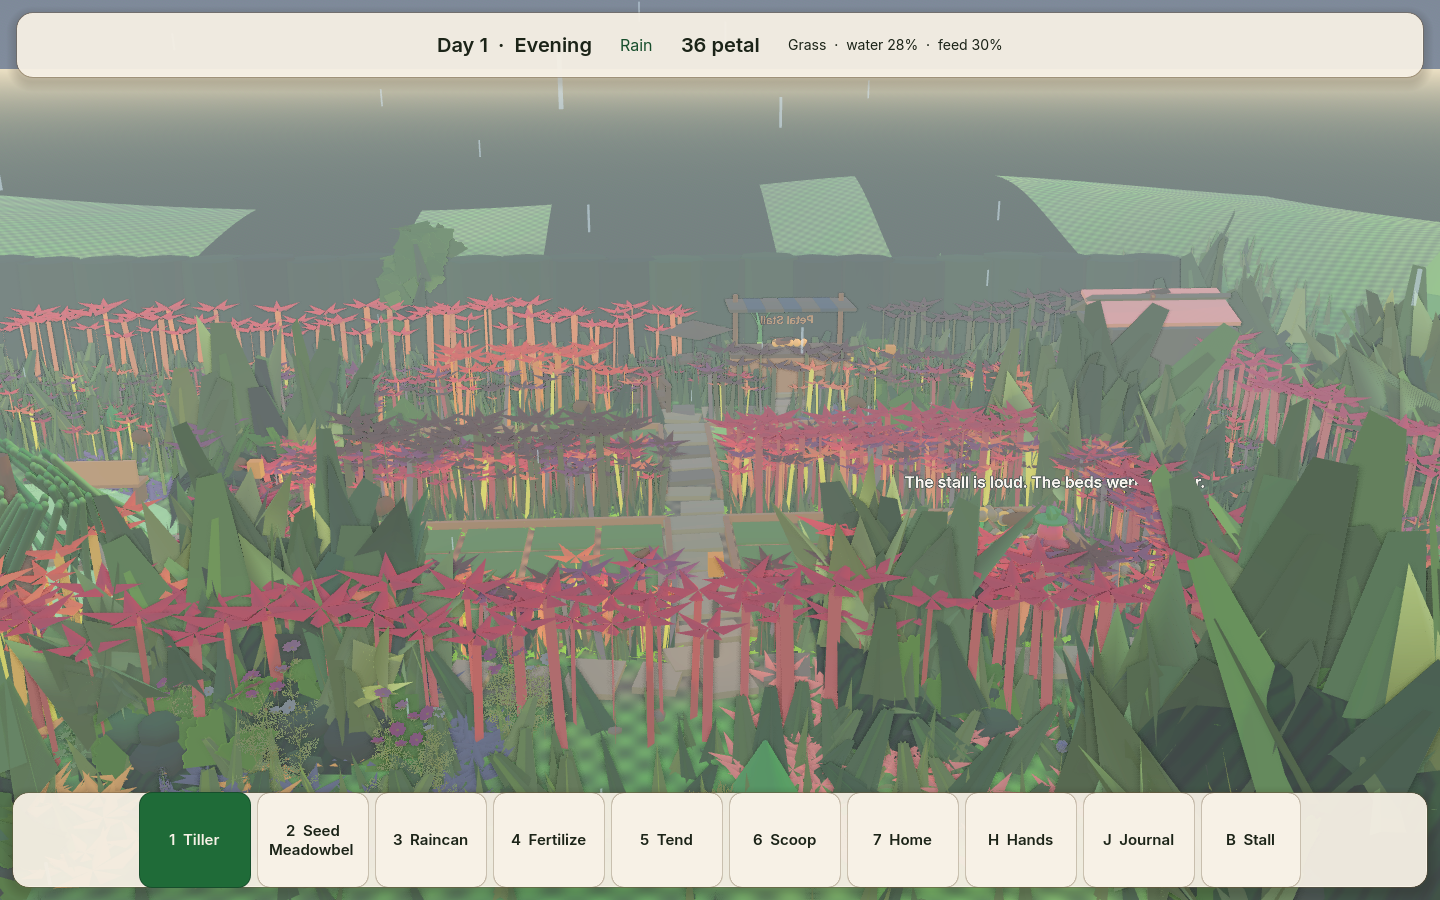
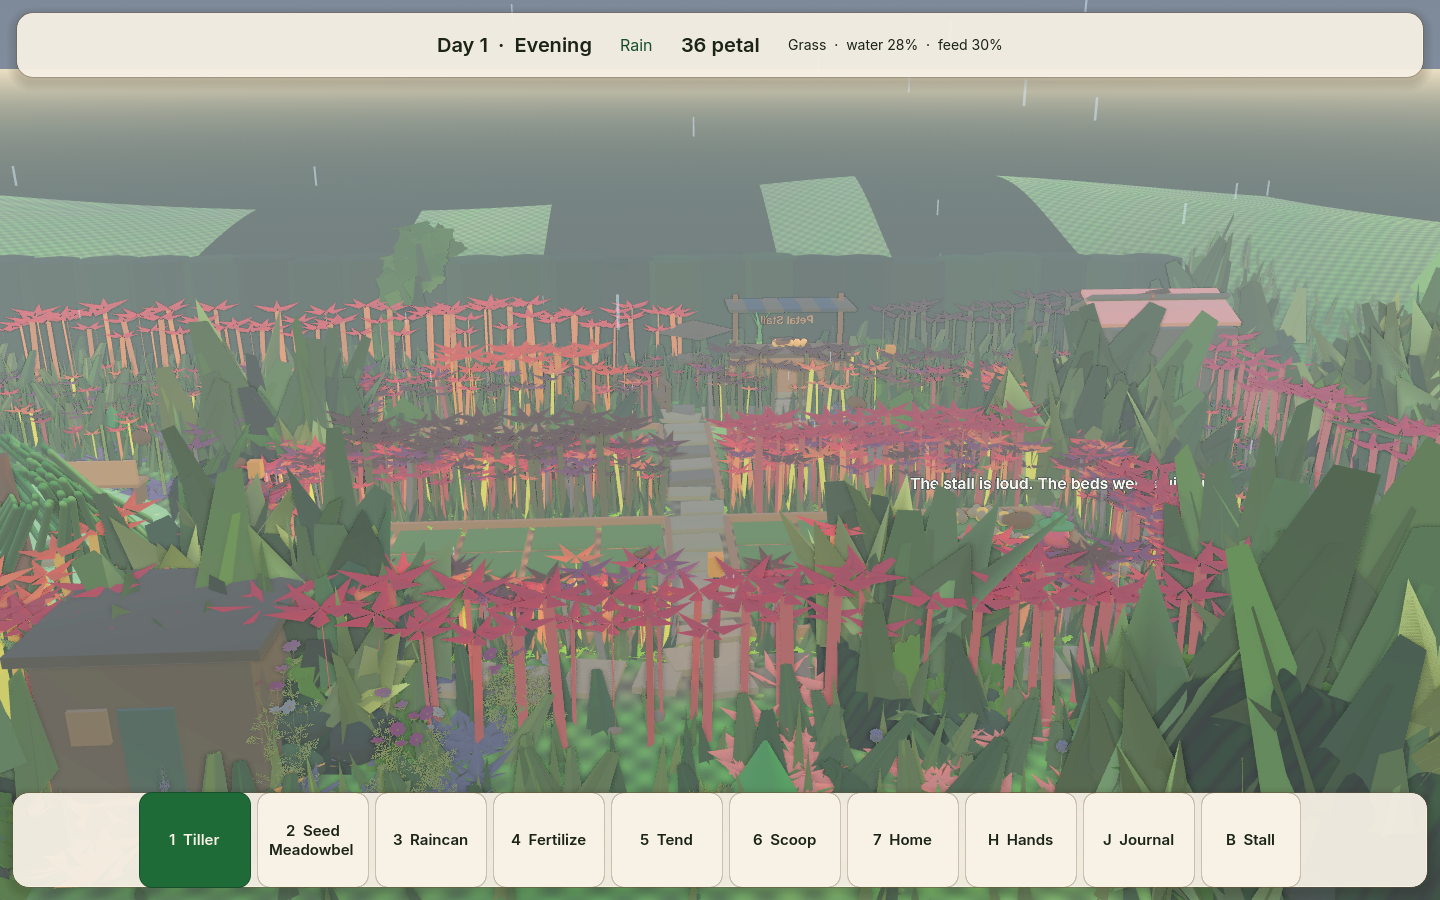
Record the tea house on the south lawn.
The home shot shows the porch in the lower left. The west hill edge is still the light-green band.

diff --git a/docs/PETALWILD_MASTER_STATE.md b/docs/PETALWILD_MASTER_STATE.md
@@ -64,14 +64,14 @@ Spent: 0. Remaining on the connected account: **367.46** (pro). Catalog check re
 
 Compared `docs/screenshots/wave1_overview.png`, `wave1_jelly.png`, and `wave1_lumen.png` with `docs/reference/petalwild_target_garden_01.png` and `petalwild_target_garden_02.png`.
 
-The north backdrop trees are shorter than the hedge. Crest leaf cards are 0.4 scale, and the far hedge keeps one 2.5 m tuft in four. A dark shrub row stands just behind that wall, taller at the east end. Light-green pixels fell from 53% to 24% in the upper opening band (screen y 265–320) and from 36% to 13% in the lower band (y 290–360). East-lip luminance (y 252–272) fell from 200 to 162. The hill (y 200–245) did not change. Bellhelp’s close-up is on open lawn: five narrow lobes, a dark five-petal well, a gold seed, a wider flared whorl, a lower rim, five gap tips past the lobes, a darker band, and a wide short rank inside the tips. The bench and planter use a dark multiply, bright plant-atlas texels are capped, and the lantern glass is amber. The pink disk by the south-west rail, the untilled grass-plot tops, the meadowbell petals, the mauve bed, the resident hands, the light flagstones, the path dirt, and the loose stones are darkened. Pure white on this overview is 0. The stall awning’s bright blue was cloth, now about (171, 171, 173), and the sky-blue detector is 0. The shrub row behind the wall no longer reads as pale green; that upper-band check is 1.2%. On this shot that check is 1.17%, and the hill mean stayed at (212.9, 224.4, 147.6). A planted meadowbell is three bells on a leaf pad, and every crop sits in a ring of eight leaves. Eight bees drift over the beds. Four birds cross the garden by day and perch at dusk and in the rain. Paths are flagstones on dark dirt. Lumen’s stalk is one fluted taper, and the raised hand holds the seed tray. `PETAL_SMOKE_OK`, `PETAL_RULES_OK`, and `PETAL_CAPTURE_OK` passed on this tree. Shots are the six `wave1_*.png` files.
+The north backdrop trees are shorter than the hedge. Crest leaf cards are 0.4 scale, and the far hedge keeps one 2.5 m tuft in four. A dark shrub row stands just behind that wall, taller at the east end. Light-green pixels fell from 53% to 24% in the upper opening band (screen y 265–320) and from 36% to 13% in the lower band (y 290–360). East-lip luminance (y 252–272) fell from 200 to 162. The hill (y 200–245) did not change. Bellhelp’s close-up is on open lawn: five narrow lobes, a dark five-petal well, a gold seed, a wider flared whorl, a lower rim, five gap tips past the lobes, a darker band, and a wide short rank inside the tips. The bench and planter use a dark multiply, bright plant-atlas texels are capped, and the lantern glass is amber. The pink disk by the south-west rail, the untilled grass-plot tops, the meadowbell petals, the mauve bed, the resident hands, the light flagstones, the path dirt, and the loose stones are darkened. Pure white on this overview is 0. The stall awning’s bright blue was cloth, now about (171, 171, 173), and the sky-blue detector is 0. The shrub row behind the wall no longer reads as pale green; that upper-band check is 1.2%. On the previous shot that check was 1.17% and the hill mean was (212.9, 224.4, 147.6). With the hedge tea house in the lower left, this shot is 1.30% and the hill mean is (212.0, 223.6, 146.4). A planted meadowbell is three bells on a leaf pad, and every crop sits in a ring of eight leaves. Eight bees drift over the beds. Four birds cross the garden by day and perch at dusk and in the rain. Paths are flagstones on dark dirt. Lumen’s stalk is one fluted taper, and the raised hand holds the seed tray. `PETAL_SMOKE_OK`, `PETAL_RULES_OK`, and `PETAL_CAPTURE_OK` passed on this tree. Shots are the six `wave1_*.png` files.
 
 Three largest gaps still open, against `docs/reference/petalwild_target_garden_01.png` and `petalwild_target_garden_02.png`:
 
-1. **Hedge skyline.** The crest cards and the far trees are darker. On this shot 1.17% of the upper band is still light-green, mostly the west edge of the hill. The hill mean stayed at (212.9, 224.4, 147.6). The stall still shows through the middle. PETAL-05.
+1. **Hedge skyline.** The crest cards and the far trees are darker. On this shot 1.30% of the upper band is still light-green, mostly the west edge of the hill. The hill mean is (212.0, 223.6, 146.4). The stall still shows through the middle. The hedge tea house is in the lower left and does not cover that edge. PETAL-05.
 2. **Bellhelp.** Ten tips, a short rank inside them, a darker band, and a wider skirt. The dark throat is still the center. PETAL-03.
 3. **Highlights.** Overview pixels at pure white are 0. The lanterns, the pink disk, the grass-plot tops, the meadowbell petals, the mauve bed, the flagstones, the path dirt, and the loose stones at screen x 618, y 727 are gone. Pixels with red and green at 255 and blue at 220 or above are 0. The brightest clipped pixels left are (255, 255, 201) at screen x 1034, y 178, the warm horizon in the hedge opening. That is sky. PETAL-06.
 
 ## Next integration
 
-Keep this build playable. The next pass stays inside `scenes/main.tscn` (Hedge Hollow). The creature chain through Gushorn can happen in this garden. The research hut, media foundry, and town hall are still not built. The hedge tea house stands on the south lawn. Meadowbells are a clump of three, and every crop sits in a ring of leaves. On this shot 1.17% of the upper band is still light green, mostly the west edge of the hill, and the stall still shows through the middle. The hill mean stayed at (212.9, 224.4, 147.6). Bees sit on the flowers while it rains. Do not paint that hill edge, do not cut the hill, and do not raise the east shrubs. Do not fill Bellhelp’s dark throat. Do not open a side demo. The Kenney/Cara grove in `scripts/presentation/` is not the running scene.
+Keep this build playable. The next pass stays inside `scenes/main.tscn` (Hedge Hollow). The creature chain through Gushorn can happen in this garden. The research hut, media foundry, and town hall are still not built. The hedge tea house stands on the south lawn. Meadowbells are a clump of three, and every crop sits in a ring of leaves. On this shot 1.30% of the upper band is still light green, mostly the west edge of the hill, and the stall still shows through the middle. The hill mean is (212.0, 223.6, 146.4). The hedge tea house is in the lower left. Bees sit on the flowers while it rains. Do not paint that hill edge, do not cut the hill, and do not raise the east shrubs. Do not fill Bellhelp’s dark throat. Do not open a side demo. The Kenney/Cara grove in `scripts/presentation/` is not the running scene.

diff --git a/docs/VISUAL_GAP.md b/docs/VISUAL_GAP.md
@@ -2,11 +2,11 @@
 
 Compared on 2026-09-22. The scene `tools/run.sh` launches is Hedge Hollow. Shots: `docs/screenshots/wave1_overview.png`, `wave1_jelly.png`, `wave1_lumen.png`. Targets: `docs/reference/petalwild_target_garden_01.png` and `petalwild_target_garden_02.png`.
 
-The north backdrop trees are shorter than the hedge. Crest leaf cards are 0.4 of their old size, and the far wall keeps one 2.5 m tuft in four. A row of dark shrubs stands just behind that wall. The east end is taller so its lip meets the hedge line. Light-green pixels in the upper opening band (screen y 265–320, x 40–1400) fell from 53% to 24%, and in the lower band (y 290–360, x 80–1200) from 36% to 13%. On the east lip (y 252–272, x 40–300) mean luminance fell from 200 to 162. The hill (y 200–245) did not change. The stall still sits in front of the middle of the wall. The bright blue band in that opening was the awning cloth, not a hole in the hedge. That stripe is darker now and reads about (171, 171, 173). A sky-blue detector on the overview (blue above 200, ahead of red by 20 and of green by 10) is 0. The shrub row behind the wall was lifting to pale green under the sun. The same light-green check (green ahead of red by 15 and of blue by 20, green above 140) now covers 1.2% of the upper band, down from 3.5% on the previous shot. The crest leaf cards and the far trees were the pale pixels in the side openings. The upper hill (screen y 200–230) stayed at about (213, 224, 148). The ground sky below the horizon is green, so a hole in the hill reads as olive rather than pale sky. Bellhelp’s close-up shows five pointed lobes, five gap tips past them, a wide short rank inside that ring, a darker band, and a wider flared whorl. The dark throat stays. The wide skirt of spheres is gone. The bench and planter use a dark multiply on the prop texture, and bright plant-atlas texels are capped. The three lantern glasses are amber instead of pure white. The pink disk by the south-west rail, the untilled grass-plot tops, the meadowbell petals, the mauve bed, the resident hands, the light flagstones, the path dirt, and the loose stones are darkened so they stay under the sun. Eight bees drift over the beds. Four birds cross the garden by day and perch at dusk and in the rain. A planted meadowbell is three bells on a leaf pad, and every crop sits in a ring of eight leaves. Pure white on this overview is 0. On this shot the upper-band light-green check is 1.17%. The hill mean stayed at (212.9, 224.4, 147.6).
+The north backdrop trees are shorter than the hedge. Crest leaf cards are 0.4 of their old size, and the far wall keeps one 2.5 m tuft in four. A row of dark shrubs stands just behind that wall. The east end is taller so its lip meets the hedge line. Light-green pixels in the upper opening band (screen y 265–320, x 40–1400) fell from 53% to 24%, and in the lower band (y 290–360, x 80–1200) from 36% to 13%. On the east lip (y 252–272, x 40–300) mean luminance fell from 200 to 162. The hill (y 200–245) did not change. The stall still sits in front of the middle of the wall. The bright blue band in that opening was the awning cloth, not a hole in the hedge. That stripe is darker now and reads about (171, 171, 173). A sky-blue detector on the overview (blue above 200, ahead of red by 20 and of green by 10) is 0. The shrub row behind the wall was lifting to pale green under the sun. The same light-green check (green ahead of red by 15 and of blue by 20, green above 140) now covers 1.2% of the upper band, down from 3.5% on the previous shot. The crest leaf cards and the far trees were the pale pixels in the side openings. The upper hill (screen y 200–230) stayed at about (213, 224, 148). The ground sky below the horizon is green, so a hole in the hill reads as olive rather than pale sky. Bellhelp’s close-up shows five pointed lobes, five gap tips past them, a wide short rank inside that ring, a darker band, and a wider flared whorl. The dark throat stays. The wide skirt of spheres is gone. The bench and planter use a dark multiply on the prop texture, and bright plant-atlas texels are capped. The three lantern glasses are amber instead of pure white. The pink disk by the south-west rail, the untilled grass-plot tops, the meadowbell petals, the mauve bed, the resident hands, the light flagstones, the path dirt, and the loose stones are darkened so they stay under the sun. Eight bees drift over the beds. Four birds cross the garden by day and perch at dusk and in the rain. A planted meadowbell is three bells on a leaf pad, and every crop sits in a ring of eight leaves. Pure white on this overview is 0. On the previous shot the upper-band light-green check was 1.17% and the hill mean was (212.9, 224.4, 147.6). The hedge tea house now stands in the lower left of the home shot. On this shot the same check is 1.30% (969 pixels) and the hill mean is (212.0, 223.6, 146.4). That shift is the west edge of the hill under the swaying leaves.
 
 ## Three largest gaps
 
-1. **Hedge skyline.** The crest cards and the far trees are darker. On this shot 1.17% of the upper band is still light-green, mostly the west edge of the hill. The hill mean stayed at (212.9, 224.4, 147.6). The stall still shows through the middle. PETAL-05.
+1. **Hedge skyline.** The crest cards and the far trees are darker. On this shot 1.30% of the upper band is still light-green, mostly the west edge of the hill. The hill mean is (212.0, 223.6, 146.4). The stall still shows through the middle. The hedge tea house is in the lower left and does not cover that edge. PETAL-05.
 
 2. **Bellhelp.** Ten tips, a short rank inside them, a darker band, and a wider skirt. The dark throat is still the center. PETAL-03.
 
